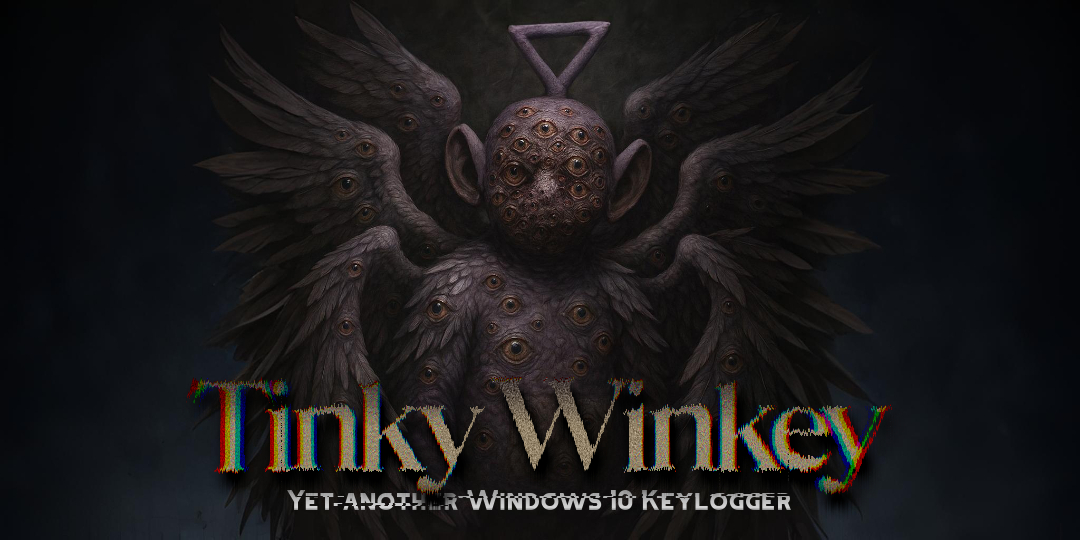
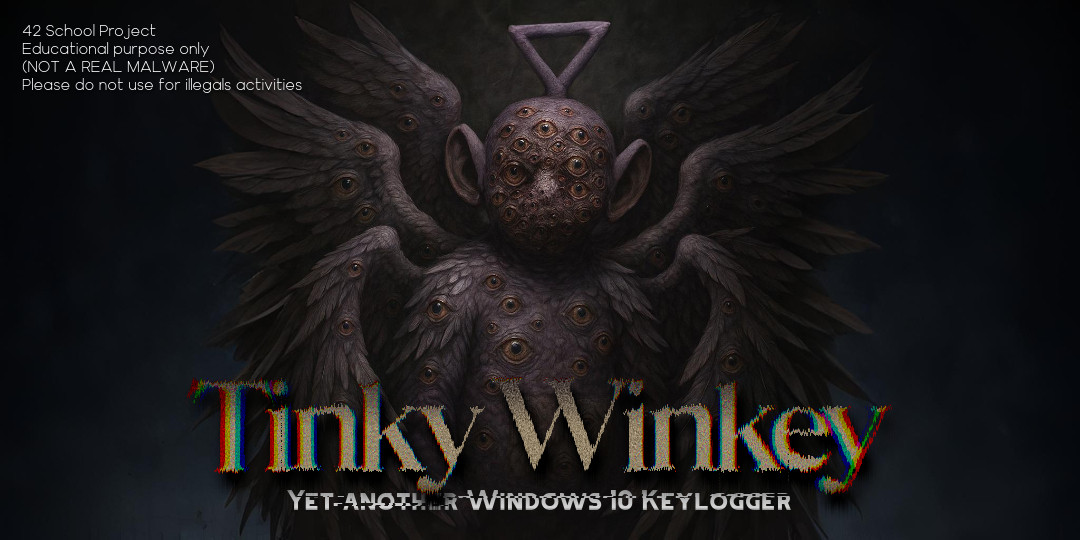
feat(docs): add disclaimer image to README and update layout

Changed region(s): [[0.0306, 0.0296, 0.275, 0.1778]]

diff --git a/README.md b/README.md
@@ -1,4 +1,11 @@
 # TinkyWinkey
+<table>
+<tr>
+<td width="256">
+<img src=".readme_utils/disclaimer.jpg" alt="disclaimer" width="256"/>
+</td>
+<td>
+
 **LEGAL AND ETHICAL DISCLAIMER**
 
 This project, named TinkyWinkey, is developed as part of a school project at [42](https://42lyon.fr/). Its sole purpose is strictly **educational and demonstrative**.
@@ -13,6 +20,11 @@ We wish to emphasize that this project was not developed as part of any criminal
 In reference to recent public discussions, this project is not linked to any illegal activities. The articles discusses isolated developments; this code is an academic work.
 
 By downloading or using this code, you agree to abide by these terms.
+
+</td>
+</tr>
+</table>
+
 # Yet Another Windows 10 keylogger
 <img src=".readme_utils\banner.jpg" alt="Title banner" width="1024"/>
 
